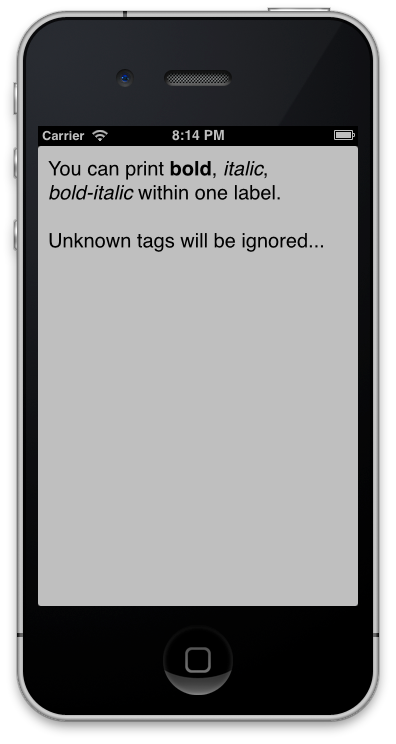
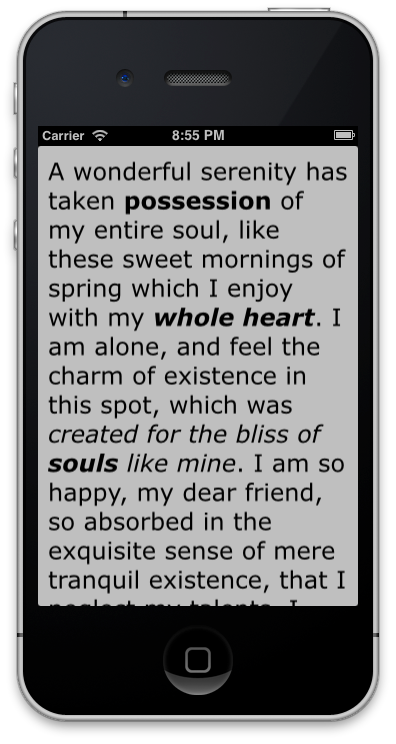
improved sample html

diff --git a/Sample/CoreTextLabelSample/CoreTextLabelSample/Sample.html b/Sample/CoreTextLabelSample/CoreTextLabelSample/Sample.html
@@ -1,4 +1,1 @@
-You can print <b>bold</b>, <i>italic</i>, <br /><b><i>bold-italic</i></b> within one label.
-<br />
-<br />
-<unknown>Unknown tags</unknown> will be ignored...
+A wonderful serenity has taken <b>possession</b> of my entire soul, like these sweet mornings of spring which I enjoy with my <b><i>whole heart</i></b>. I am alone, and feel the charm of existence in this spot, which was <i>created for the bliss of <b>souls</b> like mine</i>. I am so happy, my dear friend, so absorbed in the exquisite sense of mere tranquil existence, that I neglect my talents. I should be incapable of drawing a single stroke at the present moment; and yet I feel that I never was a greater artist than now. When, while the lovely <i>valley teems</i> with vapour around me, and the meridian sun strikes the upper surface of the impenetrable foliage of my trees, and but a few stray gleams steal into the inner sanctuary, I throw myself down among the tall grass by the trickling stream; and, as I lie close to the earth, a thousand unknown plants are noticed by me: when I hear the buzz of the little world among the stalks, and grow familiar with the countless indescribable forms of the insects and flies, then I feel the presence of the Almighty, who formed us in his own image.

diff --git a/Sample/CoreTextLabelSample/CoreTextLabelSample/AFViewController.m b/Sample/CoreTextLabelSample/CoreTextLabelSample/AFViewController.m
@@ -38,13 +38,21 @@
     CGFloat width   = self.view.frame.size.width;
     CGRect frame    = CGRectMake(padding, padding, width-padding*2.f, 800);
 
+    UIFont * regularFont    = [UIFont fontWithName:@"Verdana" size:24.f];
+    UIFont * boldFont       = [UIFont fontWithName:@"Verdana-Bold" size:24.f];
+    UIFont * italicFont     = [UIFont fontWithName:@"Verdana-Italic" size:24.f];
+    UIFont * boldItalicFont = [UIFont fontWithName:@"Verdana-BoldItalic" size:24.f];
+
     NSString * htmlPath   = [[NSBundle mainBundle] pathForResource:@"Sample" ofType:@"html"];
     NSString * htmlString = [NSString stringWithContentsOfFile:htmlPath
                                                       encoding:NSUTF8StringEncoding
                                                          error:nil];
 
     CoreTextLabel * label  = [[CoreTextLabel alloc] initWithFrame:frame];
-    label.defaultFontSize  = 20.f;
+    label.regularFont      = regularFont;
+    label.boldFont         = boldFont;
+    label.italicFont       = italicFont;
+    label.boldItalicFont   = boldItalicFont;
     label.attributedString = [label attributedStringByHTML:htmlString];
     [label sizeToFit];
     [self.view addSubview:label];

diff --git a/README.md b/README.md
@@ -24,7 +24,7 @@ $ vim Podfile
 ```
 
 ```ruby
-platform :ios
+platform :ios, '5.0'
 pod 'CoreTextLabel', :head
 ```
 
